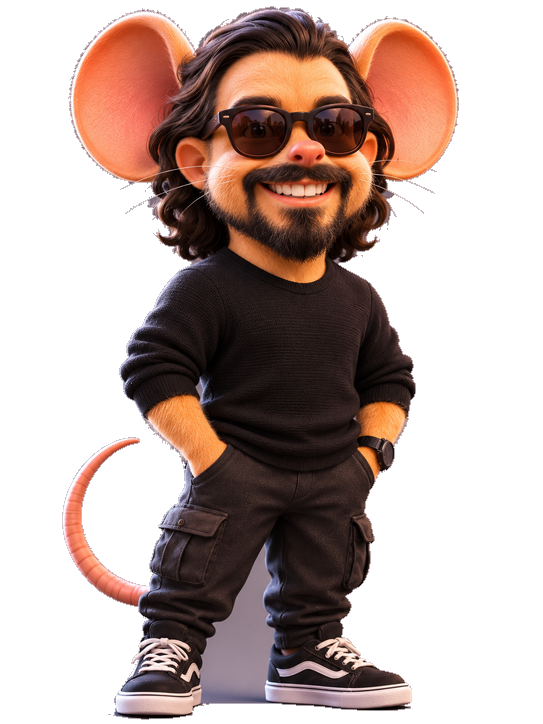
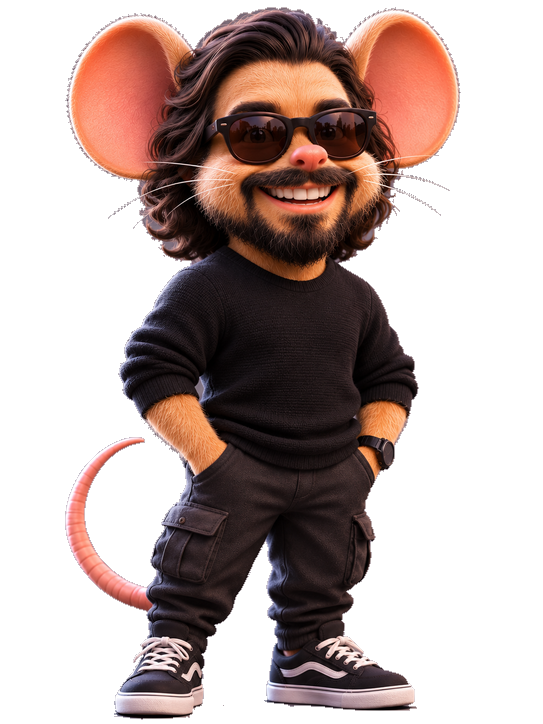
Tela de abertura com a arte da turma + Telles com orelhas de camundongo

diff --git a/SPEC.md b/SPEC.md
@@ -113,6 +113,12 @@ Conversão de stat para física (em `kart.gd`):
 - [x] **RF-87** A IA acerta a largada turbo 35% das vezes.
 - [x] **RF-90** **Pause:** `Esc` (ou Start no controle) pausa com menu Continuar / Reiniciar / Menu; `Esc` de novo continua. Na tela de resultado, `Esc` vai pro menu.
 
+### Tela de abertura (v0.5)
+- [x] **RF-100** O jogo abre numa tela de título com a arte `assets/ui/intro.jpg` cobrindo a tela inteira (sem distorcer, cortando as sobras) e a música tocando.
+- [x] **RF-101** Um aviso "APERTE ENTER PARA COMEÇAR" pisca embaixo; qualquer tecla, clique ou botão de controle vai pro menu (Esc fecha o jogo).
+- [x] **RF-102** A arte entra com um *fade-in* rápido e um leve zoom lento (efeito "vivo").
+- [x] **RF-103** No menu, `Esc` volta pra tela de abertura.
+
 ## 5. Controles
 
 | Ação | Jogador 1 (teclado) | Jogador 2 (teclado) | Controle (J1..J4 = controle 1..4) |
@@ -136,7 +142,8 @@ Jogadores 3 e 4 só por controle. Com 1 jogador, as teclas do J2 também valem p
 ## 7. Arquitetura
 
 ```
-scenes/menu.tscn     -> scripts/menu.gd        seleção de piloto/voltas
+scenes/intro.tscn    -> scripts/intro.gd       tela de abertura (cena principal)
+scenes/menu.tscn     -> scripts/menu.gd        jogadores, seleção de piloto e voltas
 scenes/race.tscn     -> scripts/race.gd        orquestra a corrida (estado, itens, colisões, ranking, câmera)
 scripts/game.gd      (autoload "Game")         piloto escolhido, voltas, mapa de inputs
 scripts/characters.gd                          dados dos 8 pilotos
@@ -166,6 +173,7 @@ tools/screenshot.gd                            prints do menu/corrida para revis
 - [x] **CA-10** Todos os sons existem e não estão vazios; a música tem loop ligado e dura > 8 s.
 - [x] **CA-11** Largada: acelerar a 1.2 s do VAI dá turbo; acelerar desde o início queima; não acelerar não dá nada.
 - [x] **CA-12** Com a corrida pausada, `step()` não avança tempo nem karts.
+- [x] **CA-13** A tela de abertura carrega a arte, é a cena principal do projeto e um aperto de tecla leva pro menu.
 
 Teste manual (checklist por release):
 - [ ] Dá pra ganhar a corrida jogando bem; dá pra perder jogando mal.
